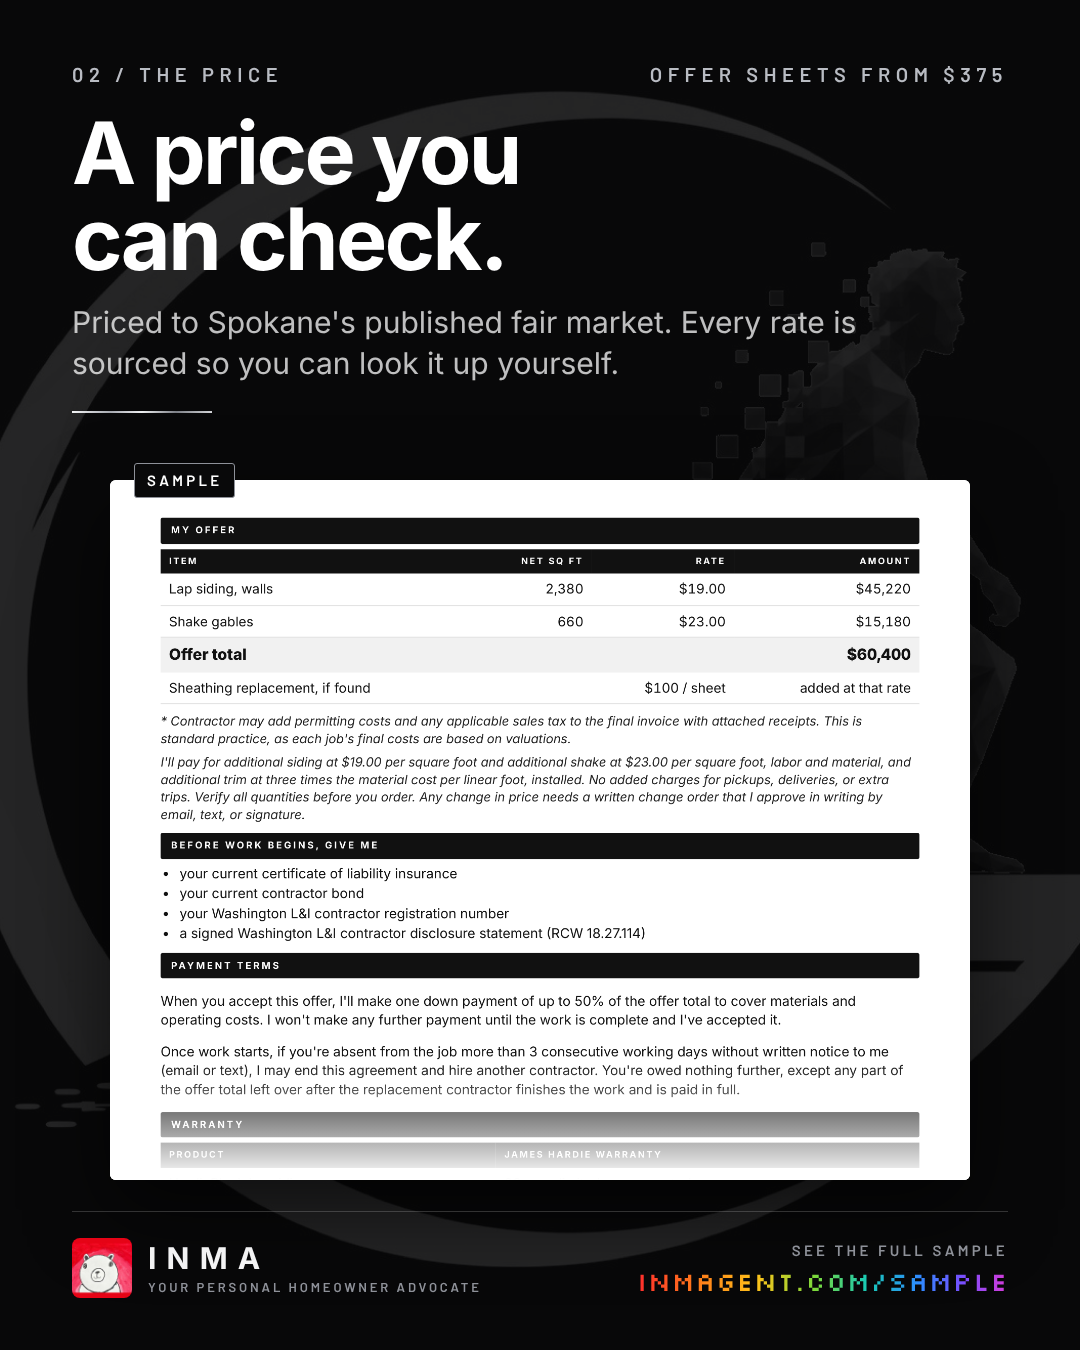
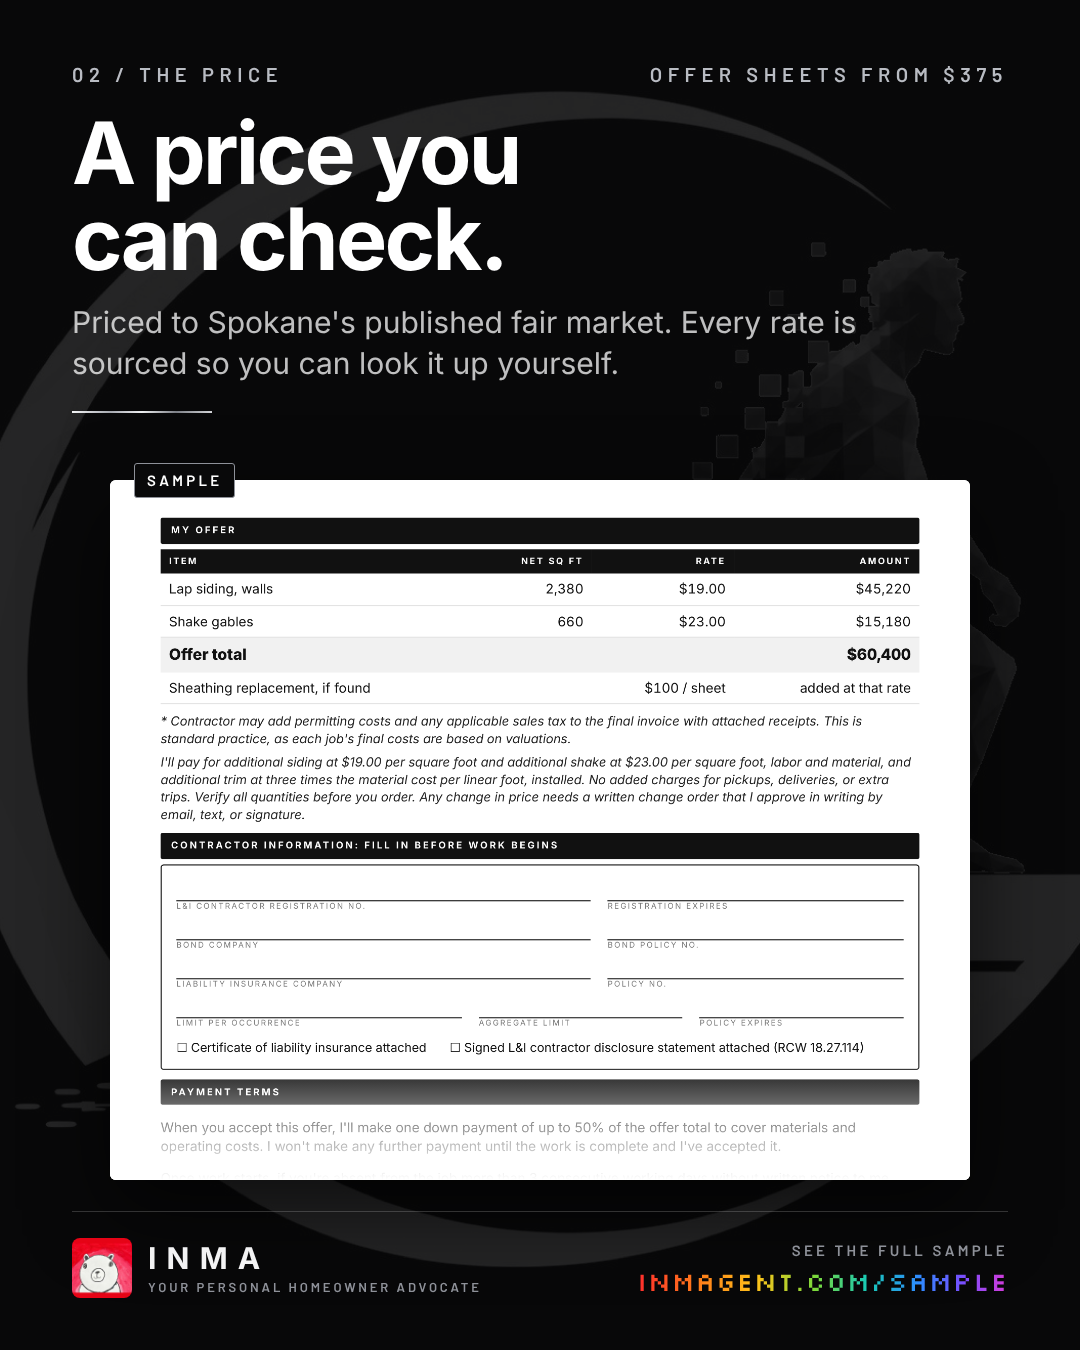
Facebook 1200x630 sample previews; refresh portrait cards; link preview uses FB size
Claude-Session: https://claude.ai/code/session_01HbxM6Hh2URUEiLeQWwdXsN

Changed region(s): [[0.1222, 0.6222, 0.8556, 0.8711]]

diff --git a/sample.html b/sample.html
@@ -9,9 +9,9 @@
 <meta property="og:title" content="Sample Offer Sheet · INMA">
 <meta property="og:description" content="Your offer. Your terms. A written offer from you to the contractor. They accept it as written or they pass.">
 <meta property="og:url" content="https://inmagent.com/sample">
-<meta property="og:image" content="https://inmagent.com/social/sample-offer/INMA-sample-1.png">
-<meta property="og:image:width" content="1080">
-<meta property="og:image:height" content="1350">
+<meta property="og:image" content="https://inmagent.com/social/sample-offer/INMA-sample-fb-1.png">
+<meta property="og:image:width" content="1200">
+<meta property="og:image:height" content="630">
 <meta name="twitter:card" content="summary_large_image">
 <link rel="canonical" href="https://inmagent.com/offers/sample-offer-sheet.html">
 <meta http-equiv="refresh" content="0; url=/offers/sample-offer-sheet.html">

diff --git a/offers/sample-offer-sheet.html b/offers/sample-offer-sheet.html
@@ -8,7 +8,7 @@
 <link rel="icon" href="/bear-logo.jpg">
 <meta property="og:title" content="Sample Offer Sheet · INMA">
 <meta property="og:description" content="Your offer. Your terms. A written offer from you to the contractor. They accept it as written or they pass.">
-<meta property="og:image" content="https://inmagent.com/social/sample-offer/INMA-sample-1.png">
+<meta property="og:image" content="https://inmagent.com/social/sample-offer/INMA-sample-fb-1.png">
 <style>
 *{box-sizing:border-box}
 html,body{margin:0;padding:0}
